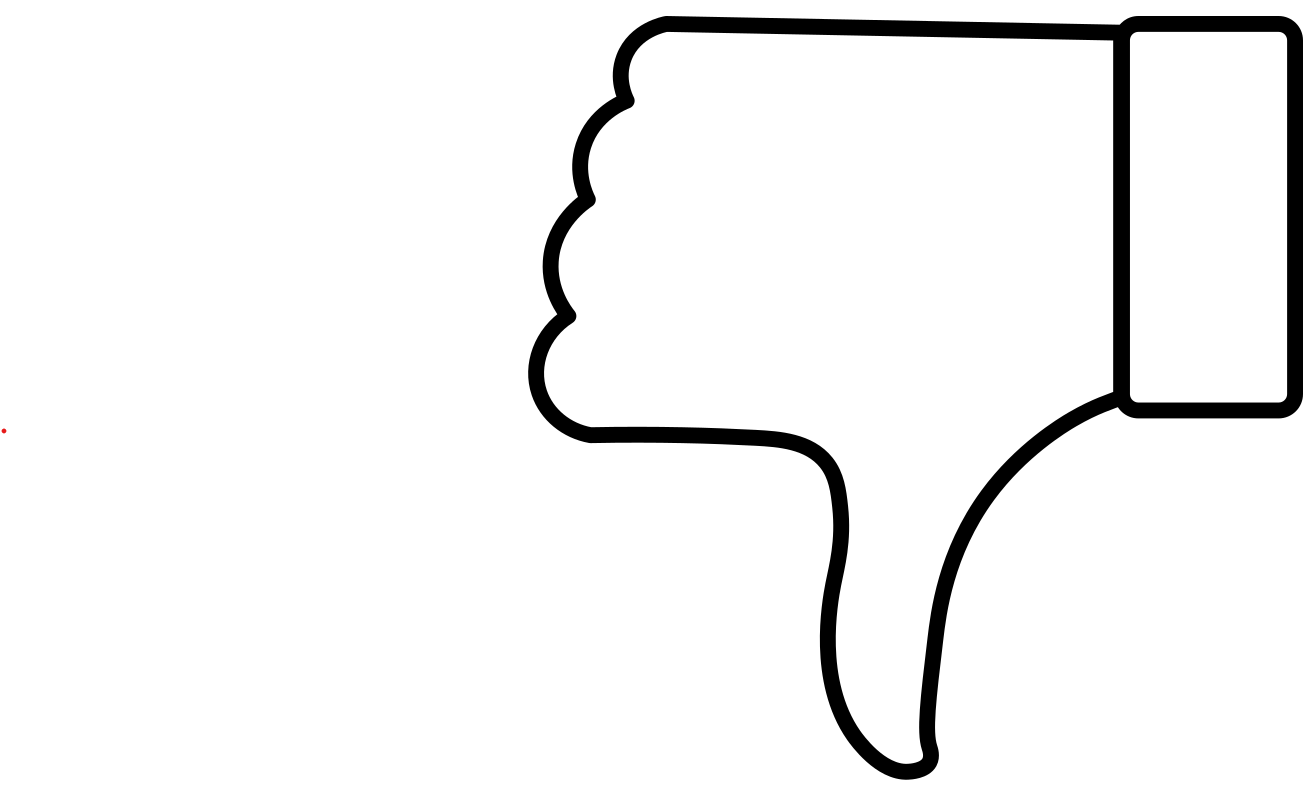
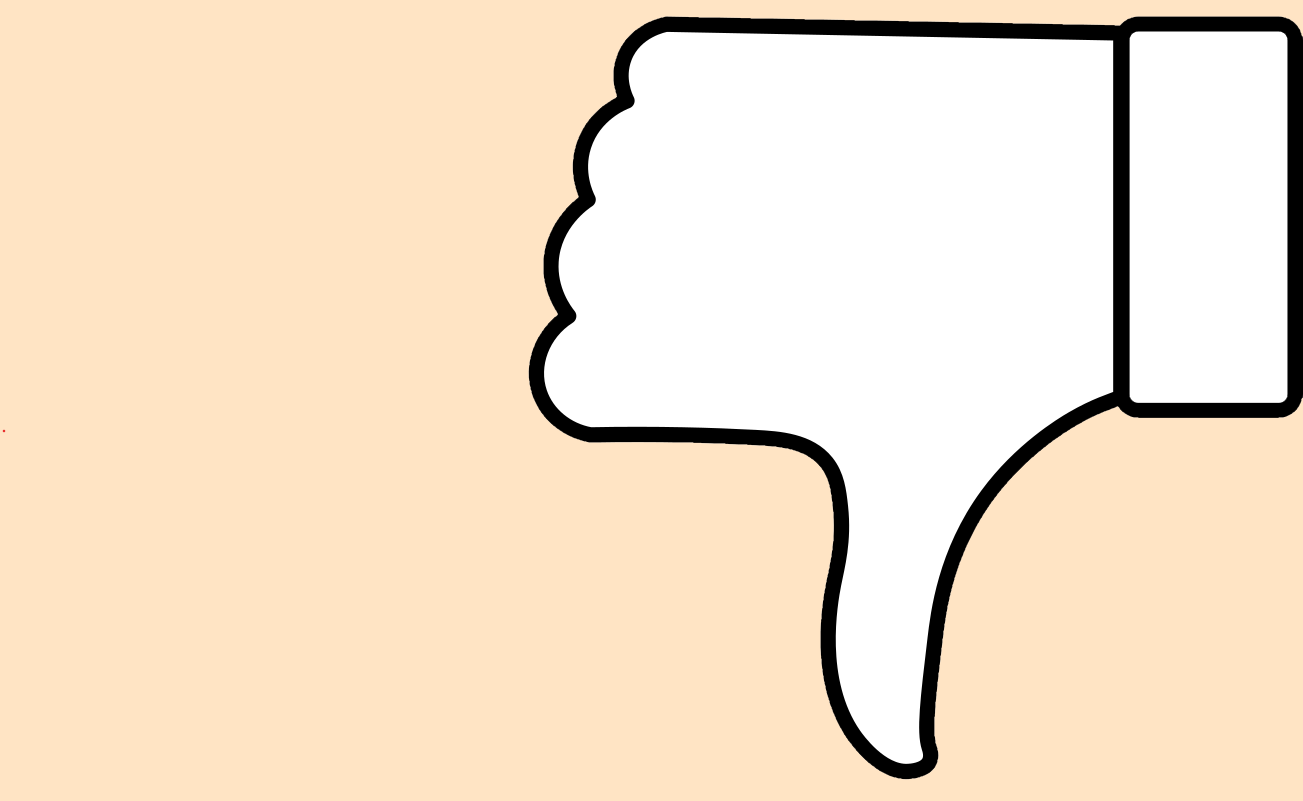
Quiz like & dislike (no function yet)

diff --git a/src/public/js/quiz-handler.js b/src/public/js/quiz-handler.js
@@ -5,9 +5,31 @@ const quizSubmit = document.getElementById("quiz-submit");
 const quizDataOutputCharacter = document.getElementById("quiz-data-output-character");
 const quizDataOutputMovie = document.getElementById("quiz-data-output-movie");
 
+const rateButtons = document.querySelectorAll(".rate-button");
+
+rateButtons.forEach(button => {
+    button.onclick = () => {
+        fetch(`/${button.name}-quote`, {
+            method: "POST",
+            headers: { 'Content-Type': 'application/json' },
+            body: JSON.stringify({ id: button.value })
+        });
+
+        rateButtons.forEach(c => c.style.backgroundColor = "transparent")
+        switch (button.name) {
+            case "like":
+                button.style.backgroundColor = "green";
+                break;
+            case "dislike":
+                button.style.backgroundColor = "red";
+                break;
+        }
+    }
+})
+
 const outData = {};
 
-if (!outData.movie || !outData.character)    quizSubmit.disabled = true;
+if (!outData.movie || !outData.character) quizSubmit.disabled = true;
 
 characterOptions.forEach(option => option.onclick = () => setSelectedForOption(option, characterOptions, "character"));
 movieOptions.forEach(option => option.onclick = () => setSelectedForOption(option, movieOptions, "movie"));
@@ -22,4 +44,5 @@ const setSelectedForOption = (option, list, type) => {
         quizDataOutputMovie.value = outData["movie"];
         quizSubmit.disabled = false;
     }
-} 
+}
+

diff --git a/src/quiz.ts b/src/quiz.ts
@@ -32,13 +32,14 @@ export class Quiz {
 
         this.wrapQuestionDirect(originalData, question);
 
-        originalData.questionIndex = this.passedQuestions.size + 1;
+        originalData.questionIndex = this.passedQuestions.size;
         originalData.questionIndexMax = Quiz.maxQuestions;
    }
 
     private wrapQuestionDirect(originalData:QuizData, question:IQuestion) : void {
         originalData.question = question.Dialog;
         let combined: (IMovie | ICharacter)[] = [];
+        originalData.quoteId = question.QuoteId;
         combined = combined.concat(question.BadAnswers, question.CorrectAnswers);
         originalData.possibleCharacters = combined.filter((v: any, i, a) => v.hair != undefined) as ICharacter[]
         originalData.possibleMovies = combined.filter((v: any, i, a) => !originalData.possibleCharacters?.includes(v)) as IMovie[];
@@ -167,6 +168,7 @@ export interface QuizData {
     questionIndexMax?: number;
 
     score?: number;
+    quoteId?:string;
     question?: string;
      
     possibleMovies?: IMovie[];

diff --git a/src/public/css/main.css b/src/public/css/main.css
@@ -74,7 +74,8 @@ footer {
 
 .quiz-box {
     position: relative;
-    background-color: bisque;
+    background-color: rgb(255, 228, 196);
+    border: 5px solid black;
     width: 600px;
     height: 600px;
     margin-top: 1.2rem;
@@ -174,6 +175,11 @@ footer {
     width: fit-content
 }
 
+.quiz-main .quiz-like-panel {
+    margin-top: 2rem;
+    text-align: center;
+}
+
 .quiz-footer {
     display: flex;
     justify-content: space-between;
@@ -194,4 +200,12 @@ footer {
 .quiz-footer form {
     margin-left: 1.4rem;
     margin-right: 1.4rem;
+}
+
+.quiz-footer #nextSub {
+   
+}
+
+.quiz-footer #prevSub {
+   
 }

diff --git a/src/public/js/quiz-review.js b/src/public/js/quiz-review.js
@@ -7,8 +7,5 @@ const nextButton = document.getElementById("nextSub");
 let countNumber = parseInt(count.textContent);
 let countMaxNumber = parseInt(maxCount.textContent);
 
-if(countNumber == countMaxNumber-1) {
-    nextButton.disabled = true;
-}else if(countNumber == 0) {
-    prevButton.disabled = true
-}
+if(countNumber == countMaxNumber-1) nextButton.disabled = true;
+else if(countNumber == 0) prevButton.disabled = true
